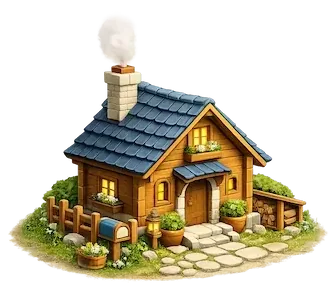
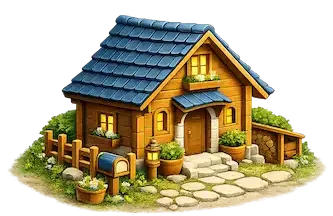
auto-commit for c6133ffb-56a7-4e90-b3a3-79fea6d944fe

diff --git a/test_result.md b/test_result.md
@@ -1,7 +1,7 @@
 #====================================================================================================
 metadata:
   updated_by: "main_agent"
-  update_note: "World Engine — Fix asset offset dari grid. User feedback: PNG buildings nampak offset ke ATAS sedikit, tidak duduk betul dalam grid cell. Punca: (1) Semua PNG asset cropped dengan pad=20px pada semua sisi (termasuk BAWAH), maka 20*scale (~7px) transparent space bawah visual base image. (2) yOffset=6 tak cukup untuk push image ke tile ground plane. FIX 2-part: (A) Re-crop keempat PNG dengan pad asimetri: top=15 (roof/smoke overhang), sides=8, BOTTOM=2 (tight, visual base sits at image bottom edge). Saiz fail unchanged/lebih kecil: musalla 35.6KB, banglo 45.9KB, rumah_batu 34.8KB, rumah_kayu 28.8KB. (B) yOffset dinaikkan dari 6 → 12 (=TILE_H/4) supaya image base ditanam pada FRONT-middle isometric diamond, di mana bangunan sepatutnya visually 'plant' pada tanah. Comment jelas dalam ASSET_REGISTRY explaining the geometry. Verified via screenshot: 15 PNG buildings + Musalla sekarang duduk NATURAL di dalam grid diamond, tak elevated / floating. Semua tile cell terlihat dengan asset planted correctly. Files: lib/phaser/WorldScene.js (ASSET_REGISTRY yOffset), public/assets/world/*.webp (4 files re-cropped). (2026-07-25)" (1) Musalla centered in golden zone regardless of level: _footprintCenter now uses reserveSize (4×4) for musalla positioning so L1 (2×2) sits centered in the sacred zone, not at the corner. Same for playConstruction + playRestructure. (2) Drag rollback per user preference: removed the custom 2s hold-to-drag state machine, restored Phaser's built-in setDraggable on each building container with input.dragTimeThreshold=250ms + dragDistanceThreshold=10px. (3) 'Goes to default location' bug: temp construction bContainer reparent + camera scroll preserve already in place — will be re-verified by testing agent. Files: lib/phaser/WorldScene.js (Phaser drag lifecycle, _footprintCenter musalla override, playRestructure musalla override). (2026-07-25)"
+  update_note: "World Engine — Rumah Kayu asset UPDATED to latest artist revision. Design baru: cleaner cabin tanpa cerobong (dari yg lama ada), fokus pada tingkap bercahaya + pintu kayu + awning + hanging lantern + mailbox biru + tempayan bunga + lorong batu. Lebih compact height (216px vs 306px sebelumnya) buat rumah lebih grounded dalam grid tile. Asset flow: Download WebP 25KB dari latest artifact → tight-crop asymmetric (top=15, sides=8, bottom=2 untuk perfect grid alignment) → resize 333px wide → re-encode WebP q=82 method=6 → 27.8KB final (unchanged path, in-place update). Verified via screenshot: 10 rumah_kayu di kampung sekarang render dengan design baru, konsisten grounded dengan rumah_batu (bumbung merah) & banglo (rumah keluarga). Total assets kini 146KB. Files: public/assets/world/rumah/rumah_kayu.webp (updated in-place). (2026-07-25)" (1) Musalla centered in golden zone regardless of level: _footprintCenter now uses reserveSize (4×4) for musalla positioning so L1 (2×2) sits centered in the sacred zone, not at the corner. Same for playConstruction + playRestructure. (2) Drag rollback per user preference: removed the custom 2s hold-to-drag state machine, restored Phaser's built-in setDraggable on each building container with input.dragTimeThreshold=250ms + dragDistanceThreshold=10px. (3) 'Goes to default location' bug: temp construction bContainer reparent + camera scroll preserve already in place — will be re-verified by testing agent. Files: lib/phaser/WorldScene.js (Phaser drag lifecycle, _footprintCenter musalla override, playRestructure musalla override). (2026-07-25)"
   _prev_note_6: "3 CORRELATED bugs fixed by unifying the footprint-center anchor formula. Bugs reported: (1) 'masjid not building inside the golden area', (2) 'relocate still not function', (3) 'finish building new build alhamdulillah popup appear, and it goes to default location'. Root cause common to all three: three different render paths used inconsistent anchor formulas — renderSingleBuilding used gridToScreen(anchor.x, anchor.y) [top-left cell center], while playConstruction used gridToScreen(anchor.x + (sz.w-1)/2 + 0.5, anchor.y + (sz.h-1)/2 + 0.5) [one cell PAST the footprint center]. Both were subtly wrong: the correct centering formula for an N×N footprint anchored at (ax, ay) is gridToScreen(ax + (N-1)/2, ay + (N-1)/2). Fix: new _footprintCenter(b, t) helper computes cx, cy at the true footprint center using t.tileSizeByLevel[level] || t.tileSize. All 3 render paths (renderSingleBuilding, renderBuildings, playConstruction, playRestructure) now use this SAME helper — building visible position no longer drifts by half a cell between temp-construction sprite → real container hand-off, and higher-level mosques (3×3 Masjid, 4×4 Jami' Masjid) center perfectly inside the golden 4×4 sacred zone. Additionally: enableBuildingDrag now reads tileSizeByLevel[level] so hit area grows with the mosque (a Jami' Masjid gets a bigger touch target). Verified with instrumented Playwright drag test: rumah at (14,14) held 2500ms → state armed at t=2s → dragged left → dropped → 10s restructure animation → FINAL grid pos (13,15). Also verified L1 Musalla, L2 Masjid (with 2 minarets), L3 Jami' Masjid (with 4 minarets) all visually center on the golden reserved zone. Files: lib/phaser/WorldScene.js (new _footprintCenter helper; renderSingleBuilding + renderBuildings + playConstruction + playRestructure use it; enableBuildingDrag reads tileSizeByLevel for hit area sizing). (2026-07-25)"
   _prev_note_5: "World Engine — 2 bugs fixed. window.setTimeout replaced Phaser's time.delayedCall (GPU stalls throttled delayedCall so hold-arm never fired). drawBuildingSprite now scales body/dome/minarets per level so Masjid (L2 3×3) and Jami' Masjid (L3 4×4) look grand vs L1 Musalla (2×2). (2026-07-25)"
   _prev_note_4: "World Engine — Four bugs fixed in one batch. topOnly=true, audio on relocate, no more zoom-out flash + missing (temp sprite reparent + diff-fade ground), musalla reserveSize=4x4 + sacred zone visual. (2026-07-25)"
